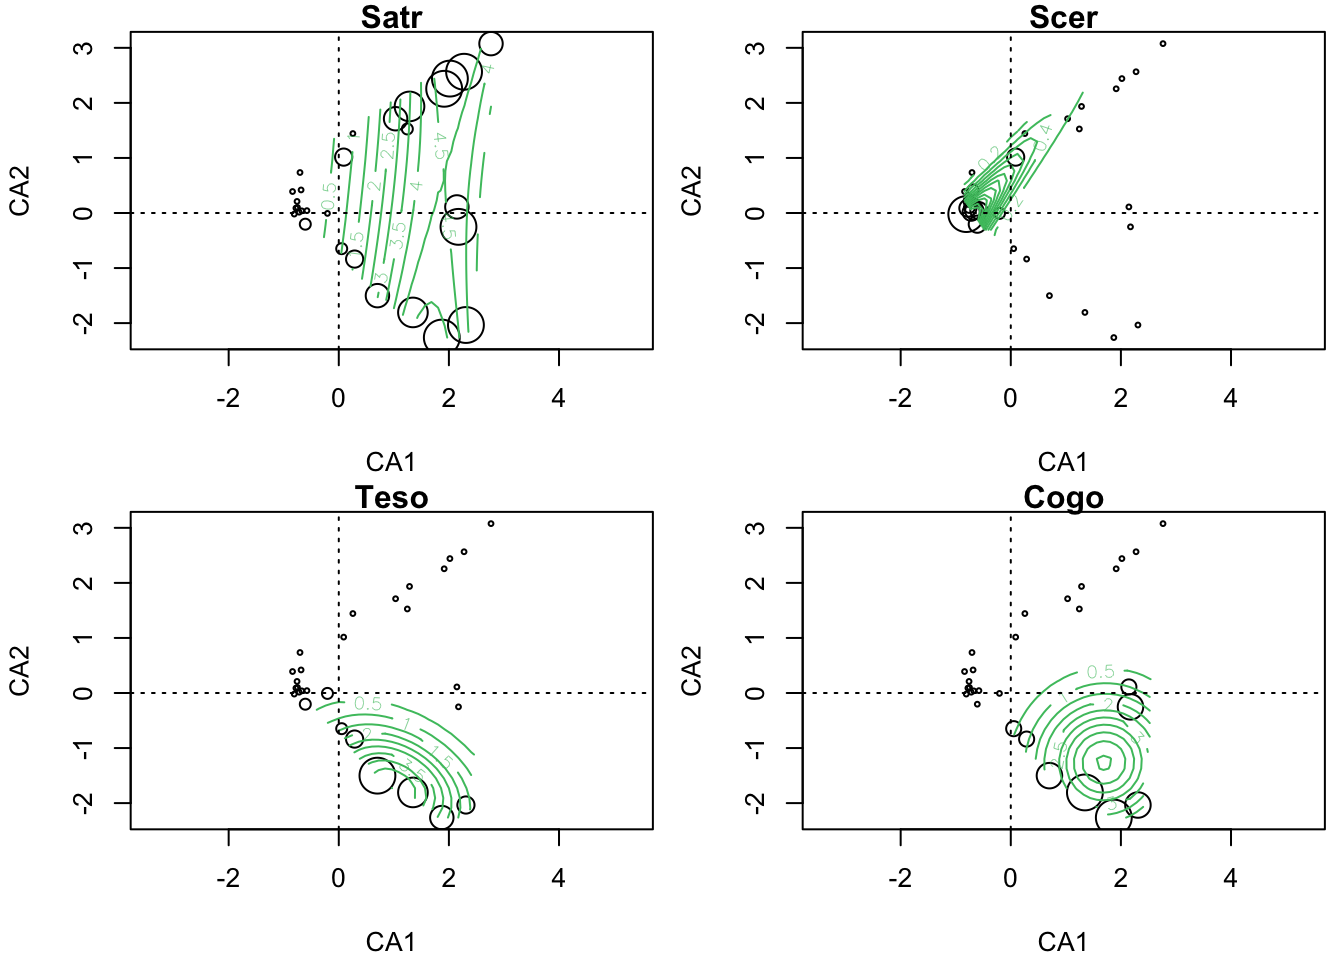
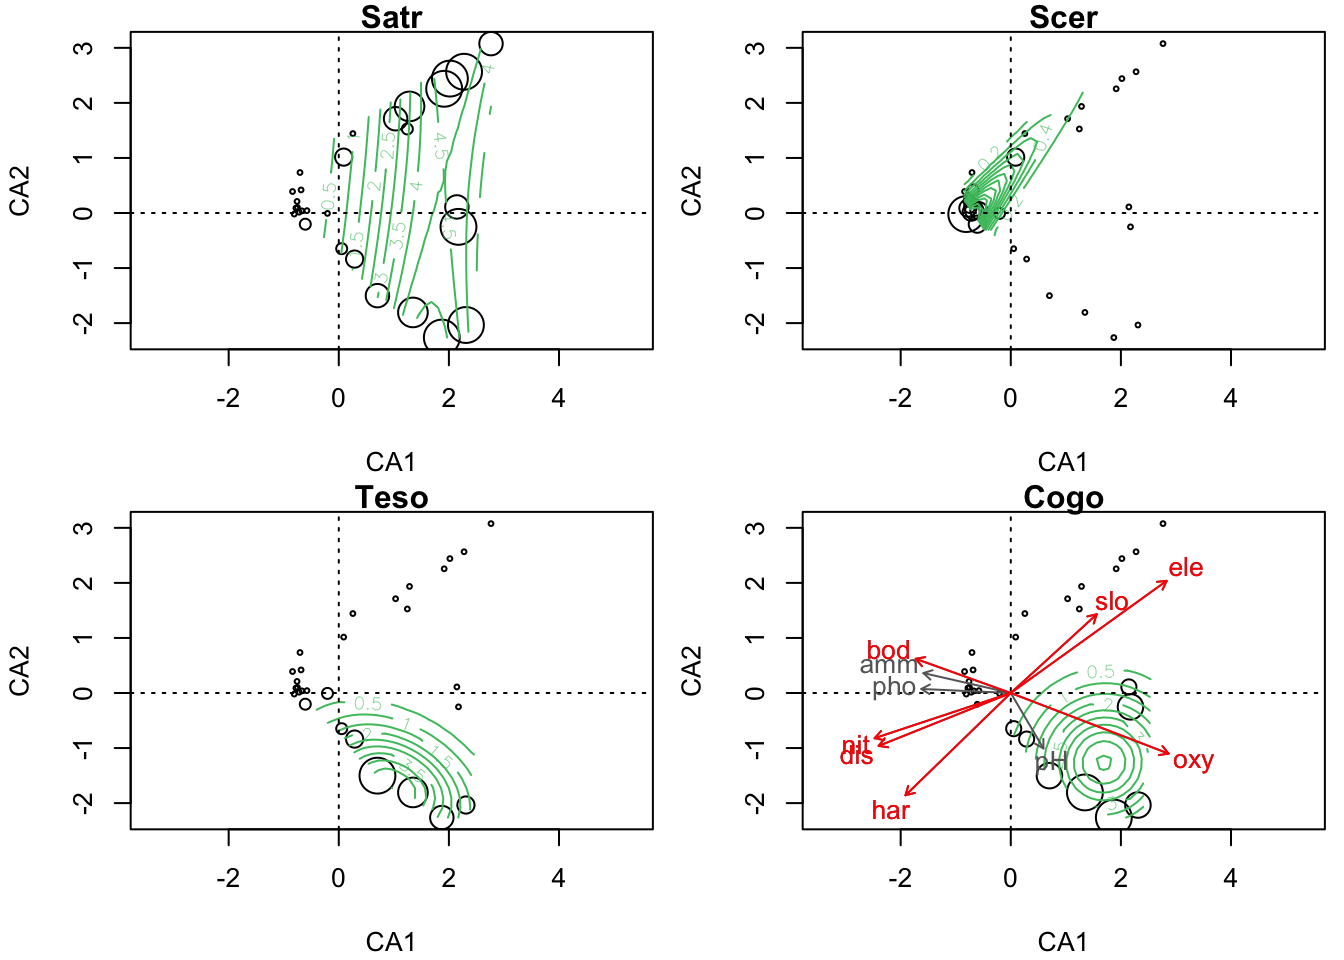
Update CA Assignment 6 Question 1.

diff --git a/content/quantecol/chapters/09-CA.md b/content/quantecol/chapters/09-CA.md
@@ -345,11 +345,7 @@ Below are biplots with site and species scores for four selected species. The pl
 
 
 ```r
-require('viridis')
-```
-
-```
-## Loading required package: viridis
+library(viridis)
 ```
 
 ```
@@ -359,32 +355,86 @@ require('viridis')
 ```r
 palette(viridis(8))
 par(mar = c(4, 4, 0.9, 0.5) + .1, mfrow = c(2, 2))
-
-tmp <- ordisurf(spe_ca ~ Satr, spe, bubble = 3,
+with(spe, ordisurf(spe_ca ~ Satr, bubble = 3,
                           family = quasipoisson, knots = 2, col = 6,
-                          display = "sites", main = "Satr")
-abline(h = 0, v = 0, lty = 3)
-
-tmp <- ordisurf(spe_ca ~ Scer, spe, bubble = 3,
-                          family = quasipoisson, knots = 2, col = 6,
-                          display = "sites", main = "Scer")
-abline(h = 0, v = 0, lty = 3)
-
-tmp <- ordisurf(spe_ca ~ Teso, spe, bubble = 3,
-                          family = quasipoisson, knots = 2, col = 6,
-                          display = "sites", main = "Teso")
-abline(h = 0, v = 0, lty = 3)
-
-tmp <- ordisurf(spe_ca ~ Cogo, spe, bubble = 3,
-                          family = quasipoisson, knots = 2, col = 6,
-                          display = "sites", main = "Cogo")
-abline(h = 0, v = 0, lty = 3)
+                          display = "sites", main = "Satr", plot = TRUE))
 ```
 
-<img src="/quantecol/chapters/09-CA_files/figure-html/unnamed-chunk-13-1.png" width="672" />
+```
+## 
+## Family: quasipoisson 
+## Link function: log 
+## 
+## Formula:
+## y ~ poly(x1, 2) + poly(x2, 2) + poly(x1, 1):poly(x2, 1)
+## Total model degrees of freedom 6 
+## 
+## REML score: 3.375507
+```
 
 ```r
+abline(h = 0, v = 0, lty = 3)
+with(spe, ordisurf(spe_ca ~ Scer, bubble = 3,
+                          family = quasipoisson, knots = 2, col = 6,
+                          display = "sites", main = "Scer"))
+```
+
+```
+## 
+## Family: quasipoisson 
+## Link function: log 
+## 
+## Formula:
+## y ~ poly(x1, 2) + poly(x2, 2) + poly(x1, 1):poly(x2, 1)
+## Total model degrees of freedom 6 
+## 
+## REML score: -12.42414
+```
+
+```r
+abline(h = 0, v = 0, lty = 3)
+with(spe, ordisurf(spe_ca ~ Teso, bubble = 3,
+                          family = quasipoisson, knots = 2, col = 6,
+                          display = "sites", main = "Teso"))
+```
+
+```
+## 
+## Family: quasipoisson 
+## Link function: log 
+## 
+## Formula:
+## y ~ poly(x1, 2) + poly(x2, 2) + poly(x1, 1):poly(x2, 1)
+## Total model degrees of freedom 6 
+## 
+## REML score: -10.15301
+```
+
+```r
+abline(h = 0, v = 0, lty = 3)
+with(spe, ordisurf(spe_ca ~ Cogo, bubble = 3,
+                          family = quasipoisson, knots = 2, col = 6,
+                          display = "sites", main = "Cogo"))
+```
+
+```
+## 
+## Family: quasipoisson 
+## Link function: log 
+## 
+## Formula:
+## y ~ poly(x1, 2) + poly(x2, 2) + poly(x1, 1):poly(x2, 1)
+## Total model degrees of freedom 6 
+## 
+## REML score: -27.82059
+```
+
+```r
+abline(h = 0, v = 0, lty = 3)
+
 # a posteriori projection of environmental variables in a CA
+env <- dplyr::select(env, -1)
+
 # we removed the 8th row in spe, so do it here too
 env <- dplyr::slice(env, -8)
 
@@ -398,17 +448,16 @@ env <- dplyr::slice(env, -8)
 ## ***VECTORS
 ## 
 ##          CA1      CA2     r2 Pr(>r)    
-## dfs -0.94799 -0.31830 0.6892  0.001 ***
 ## ele  0.81159  0.58423 0.8078  0.001 ***
-## slo  0.73753  0.67531 0.2976  0.002 ** 
+## slo  0.73753  0.67531 0.2976  0.007 ** 
 ## dis -0.92837 -0.37166 0.4440  0.001 ***
-## pH   0.50723 -0.86181 0.0908  0.213    
-## har -0.71728 -0.69678 0.4722  0.001 ***
-## pho -0.99897  0.04533 0.1757  0.085 .  
-## nit -0.94906 -0.31511 0.4510  0.001 ***
-## amm -0.97495  0.22241 0.1762  0.069 .  
+## pH   0.50723 -0.86181 0.0908  0.230    
+## har -0.71728 -0.69678 0.4722  0.002 ** 
+## pho -0.99897  0.04533 0.1757  0.068 .  
+## nit -0.94906 -0.31511 0.4510  0.002 ** 
+## amm -0.97495  0.22241 0.1762  0.073 .  
 ## oxy  0.93352 -0.35854 0.6263  0.001 ***
-## bod -0.94094  0.33857 0.2237  0.035 *  
+## bod -0.94094  0.33857 0.2237  0.034 *  
 ## ---
 ## Signif. codes:  0 '***' 0.001 '**' 0.01 '*' 0.05 '.' 0.1 ' ' 1
 ## Permutation: free
@@ -416,16 +465,15 @@ env <- dplyr::slice(env, -8)
 ```
 
 ```r
-plot(spe_ca) # default scaling = 2
 plot(spe_ca_env, col = "grey40")
-plot(spe_ca_env, p.max = 0.05, col = "turquoise") # plot significant variables with a different colour
+plot(spe_ca_env, p.max = 0.05, col = "red") # plot significant variables with a different colour
 ```
 
-<img src="/quantecol/chapters/09-CA_files/figure-html/unnamed-chunk-13-2.png" width="672" />
+<img src="/quantecol/chapters/09-CA_files/figure-html/unnamed-chunk-13-1.png" width="672" />
 
 ### Assignment 6 Questions
 
-> **Question 1.** How would you explain the patterns seen in the last five panels above?
+> **Question 1.** How would you explain the patterns seen in the last four panels immediately above?
 >
 > **Question 2.** Apply approaches taken from the analysis shown immediately above to these datasets: 1. [bird communities along elevation gradient in Yushan Mountain, Taiwan](https://www.davidzeleny.net/anadat-r/doku.php/en:data:ybirds); 2. [alpine plant communities in Aravo, France](https://www.davidzeleny.net/anadat-r/doku.php/en:data:aravo).
 >
